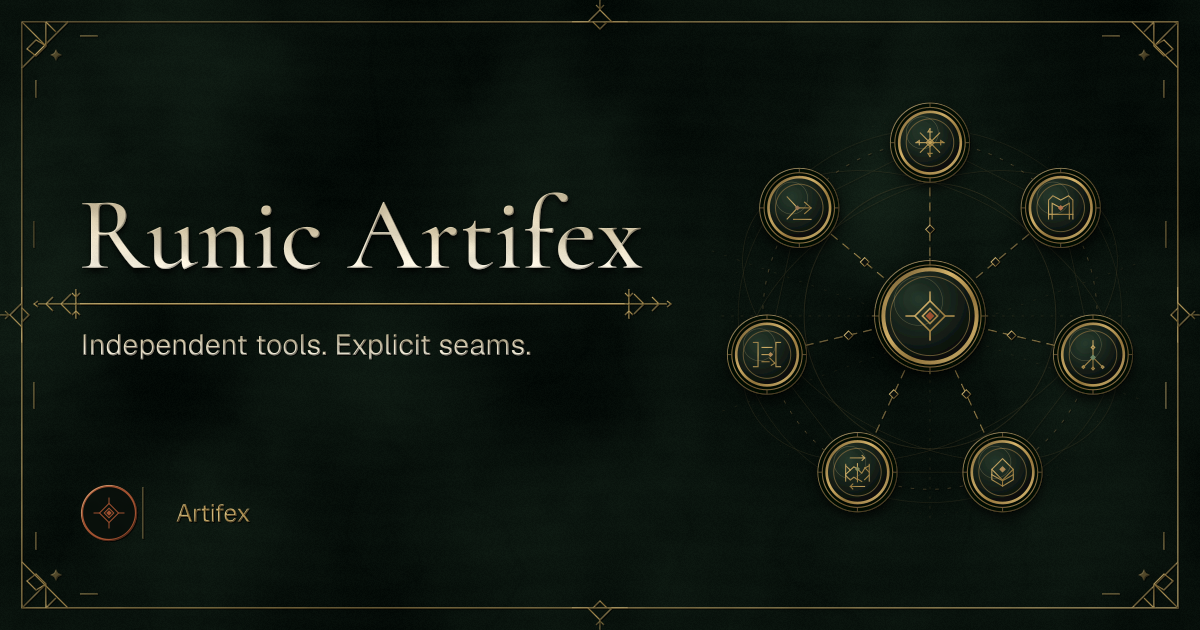
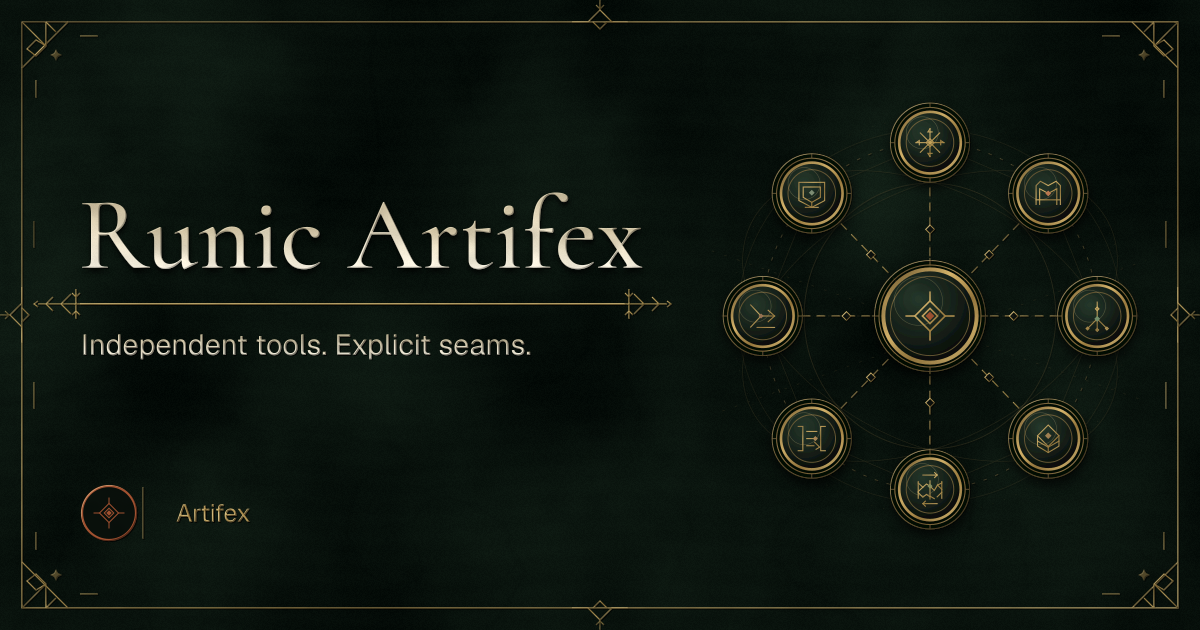
feat: publish reconciled pre-v1 site status

diff --git a/src/routes/+page.svelte b/src/routes/+page.svelte
@@ -2,13 +2,14 @@
   import FamilyConstellation from '$lib/components/FamilyConstellation.svelte';
   import ProductCard from '$lib/components/ProductCard.svelte';
   import { products } from '$lib/products';
+  import { releaseStatus } from '$lib/release-status';
 </script>
 
 <svelte:head>
   <title>Independent open-source .NET tools · Runic Artifex</title>
   <meta
     name="description"
-    content="Runic Artifex is a family of independent open-source .NET tools for desktop and browser UI, application hosting, workflows, assets, localization, and command-line apps."
+    content="Runic Artifex is a family of independent open-source .NET tools for desktop and browser UI, application hosting, assets, localization, and command-line apps."
   />
   <link rel="canonical" href="https://runic-artifex.eu/" />
   <link rel="icon" href="/icon.png" />
@@ -44,9 +45,9 @@
     <h1>Build the application you need. Keep the tools independent.</h1>
     <p class="hero__lede">
       Runic Artifex is a family of focused tools for desktop and browser UI,
-      application hosting, workflows, assets, localization, and command-line
-      apps. Each product works on its own and connects through documented
-      integrations when needed.
+      application hosting, assets, localization, and command-line apps. Each
+      product works on its own and connects through documented integrations when
+      needed.
     </p>
     <div class="hero__actions">
       <a class="button button--primary" href="#products"
@@ -57,7 +58,11 @@
       >
     </div>
     <ul class="hero__facts" aria-label="Project facts">
-      <li><strong>Public preview</strong><span>NuGet and npm</span></li>
+      <li>
+        <strong>{releaseStatus.train.id} not published</strong><span
+          >No packages or distributions assigned</span
+        >
+      </li>
       <li><strong>MIT licensed</strong><span>Built in the open</span></li>
       <li>
         <strong>NativeAOT-minded</strong><span>From contracts to hosts</span>
@@ -81,8 +86,8 @@
       <span class="principle-number">01</span>
       <h3>Focused by design</h3>
       <p>
-        Adopt a localization compiler, asset pipeline, workflow engine, or
-        native host without adopting an all-in-one framework.
+        Adopt a localization compiler, asset pipeline, or native host without
+        adopting an all-in-one framework.
       </p>
     </article>
     <article>
@@ -109,7 +114,7 @@
     <div class="section-heading section-heading--wide">
       <div>
         <p class="eyebrow"><span></span> The product family</p>
-        <h2>Seven clear jobs. One shared grammar.</h2>
+        <h2>Seven maintained tools. One historical archive.</h2>
       </div>
       <p>
         Start from the capability your application needs. Each guide explains
@@ -138,36 +143,48 @@
       >Explore the architecture <span aria-hidden="true">→</span></a
     >
   </div>
-  <div class="seam-diagram" aria-label="Example of an explicit product seam">
+  <div class="seam-diagram" aria-label="Flow historical archive guidance">
     <div class="seam-node">
       <img src="/products/runic-flow.png" alt="" aria-hidden="true" />
-      <span><small>Independent product</small>Runic Flow</span>
+      <span><small>Historical archive</small>Runic Flow</span>
     </div>
     <div class="seam-connector">
-      <span>Product-owned adapter</span>
-      <strong>RunicFlow.ApplicationBridge</strong>
+      <span>Migration guidance only</span>
+      <strong>Not a current package identity</strong>
     </div>
     <div class="seam-node">
-      <img src="/products/runic-toolkit.png" alt="" aria-hidden="true" />
-      <span><small>Independent product</small>Runic Toolkit</span>
+      <img src="/icon.png" alt="" aria-hidden="true" />
+      <span
+        ><small>No replacement or forwarding alias</small>Archive guidance</span
+      >
     </div>
   </div>
+  <p class="integration-section__archive">
+    Flow is outside the {releaseStatus.train.id} train. Its archive guide records
+    historical migration context; it is not a current package, maintained product,
+    or bridge to another Runic product.
+    <a
+      class="text-link"
+      href="https://docs.runic-artifex.eu/products/runic-flow/"
+      >Read the archive guidance <span aria-hidden="true">→</span></a
+    >
+  </p>
 </section>
 
 <section class="section shell preview-callout">
   <div>
-    <p class="eyebrow"><span></span> Build in the open</p>
-    <h2>The first package preview is public.</h2>
+    <p class="eyebrow"><span></span> Release status</p>
+    <h2>The {releaseStatus.train.id} release train is not published.</h2>
     <p>
-      Explore the source, install only what you need, and use the documentation
-      as the authoritative home for exact versions and release status.
+      No {releaseStatus.train.id} package versions or distributions have been assigned.
+      This release status is generated from the release manifest authority.
     </p>
   </div>
   <div class="preview-callout__actions">
     <a
       class="button button--primary"
-      href="https://docs.runic-artifex.eu/getting-started/"
-      >Start building <span aria-hidden="true">→</span></a
+      href="https://docs.runic-artifex.eu/releases/"
+      >View release status <span aria-hidden="true">→</span></a
     >
     <a class="button button--secondary" href="https://github.com/Runic-Artifex"
       >Browse GitHub <span aria-hidden="true">↗</span></a

diff --git a/src/lib/products.ts b/src/lib/products.ts
@@ -23,12 +23,22 @@ export const products: Product[] = [
     source: `${github}/runic-toolkit`,
   },
   {
+    slug: 'runic-desktop',
+    name: 'Runic Desktop',
+    shortName: 'Desktop',
+    capability: 'Desktop presentation',
+    description:
+      'Own the web-powered desktop presentation layer with native C# hosting and TypeScript frontend packages.',
+    docs: `${docs}/runic-desktop/`,
+    source: `${github}/runic-desktop`,
+  },
+  {
     slug: 'cs-webui',
     name: 'CS-WebUI',
     shortName: 'CS-WebUI',
-    capability: 'Native web host',
+    capability: 'WebUI compatibility',
     description:
-      'Host a web-powered cross-platform desktop UI in a lightweight native window.',
+      'A standalone managed compatibility layer for WebUI’s public API, maintained separately from the Runic v1.0 train.',
     docs: `${docs}/cs-webui/`,
     source: `${github}/cs-webui`,
   },
@@ -36,9 +46,9 @@ export const products: Product[] = [
     slug: 'runic-flow',
     name: 'Runic Flow',
     shortName: 'Flow',
-    capability: 'Headless orchestration',
+    capability: 'Historical archive',
     description:
-      'Coordinate typed, deterministic application processes without taking a UI dependency.',
+      'A historical project archive with migration guidance only; it is not a current product, package, or forwarding identity.',
     docs: `${docs}/runic-flow/`,
     source: `${github}/runic-flow`,
   },

diff --git a/src/app.css b/src/app.css
@@ -435,33 +435,38 @@ nav a:hover {
 }
 
 .constellation__product--2 {
-  top: 19%;
-  left: 82%;
+  top: 14%;
+  left: 77%;
 }
 
 .constellation__product--3 {
-  top: 58%;
+  top: 50%;
   left: 91%;
 }
 
 .constellation__product--4 {
-  top: 88%;
-  left: 68%;
+  top: 86%;
+  left: 77%;
 }
 
 .constellation__product--5 {
-  top: 86%;
-  left: 29%;
+  top: 97%;
+  left: 50%;
 }
 
 .constellation__product--6 {
-  top: 57%;
-  left: 8%;
+  top: 86%;
+  left: 23%;
 }
 
 .constellation__product--7 {
-  top: 18%;
-  left: 18%;
+  top: 50%;
+  left: 9%;
+}
+
+.constellation__product--8 {
+  top: 14%;
+  left: 23%;
 }
 
 .section {
@@ -642,6 +647,18 @@ nav a:hover {
 
 .integration-section__copy h2 {
   max-width: 12ch;
+}
+
+.integration-section__archive {
+  grid-column: 1 / -1;
+  max-width: 70ch;
+  margin: 0;
+  color: var(--parchment-muted);
+  line-height: 1.72;
+}
+
+.integration-section__archive .text-link {
+  margin-left: 0.4rem;
 }
 
 .text-link {

diff --git a/src/lib/components/FamilyConstellation.svelte b/src/lib/components/FamilyConstellation.svelte
@@ -4,12 +4,13 @@
 
 <figure class="constellation" aria-labelledby="constellation-caption">
   <figcaption id="constellation-caption" class="sr-only">
-    Runic Artifex at the center of seven independently adoptable products.
+    Runic Artifex at the center of seven maintained products and one historical
+    archive.
   </figcaption>
   <div class="constellation__rings" aria-hidden="true"></div>
   <svg class="constellation__seams" viewBox="0 0 600 600" aria-hidden="true">
     <path
-      d="M300 300 300 72M300 300 478 158M300 300 522 351M300 300 400 510M300 300 187 500M300 300 76 341M300 300 126 151"
+      d="M300 300 300 72M300 300 461 139M300 300 528 300M300 300 461 461M300 300 300 528M300 300 139 461M300 300 72 300M300 300 139 139"
     />
   </svg>
   <div class="constellation__center" aria-hidden="true">

diff --git a/src/lib/release-status.ts b/src/lib/release-status.ts
@@ -1,0 +1,21 @@
+// Generated from Runic-Artifex/.github@dbafda21a892968cccac2d9f9f78120e150fce13. Do not edit manually.
+// Regenerate with: npm run release-status:sync
+
+export const releaseStatus = {
+  authority: {
+    repository: 'Runic-Artifex/.github',
+    revision: 'dbafda21a892968cccac2d9f9f78120e150fce13',
+    manifestDigest:
+      'sha256:44509da940d238738427d2cce4a8d2d58863b21f1d976daf854c04be9c086b3f',
+    schemaDigest:
+      'sha256:32b46fd971d70e7b830802101745076f401bf201571834f8b57856686b8950e6',
+    verifierDigest:
+      'sha256:8b6fdf5bb8e83446f7a92c00c3a1f4c8f277c2cfa8e7d56fb704f6653f486ec6',
+  },
+  train: {
+    id: 'v1.0',
+    publication: 'unassigned',
+    assignedVersions: 0,
+    assignedDistributions: 0,
+  },
+} as const;

diff --git a/eslint.config.js b/eslint.config.js
@@ -5,7 +5,14 @@ import globals from 'globals';
 import tseslint from 'typescript-eslint';
 
 export default tseslint.config(
-  { ignores: ['.svelte-kit/**', 'build/**', 'node_modules/**'] },
+  {
+    ignores: [
+      '.svelte-kit/**',
+      'build/**',
+      'node_modules/**',
+      'release-authority/**',
+    ],
+  },
   eslint.configs.recommended,
   ...tseslint.configs.recommended,
   ...svelte.configs.recommended,
